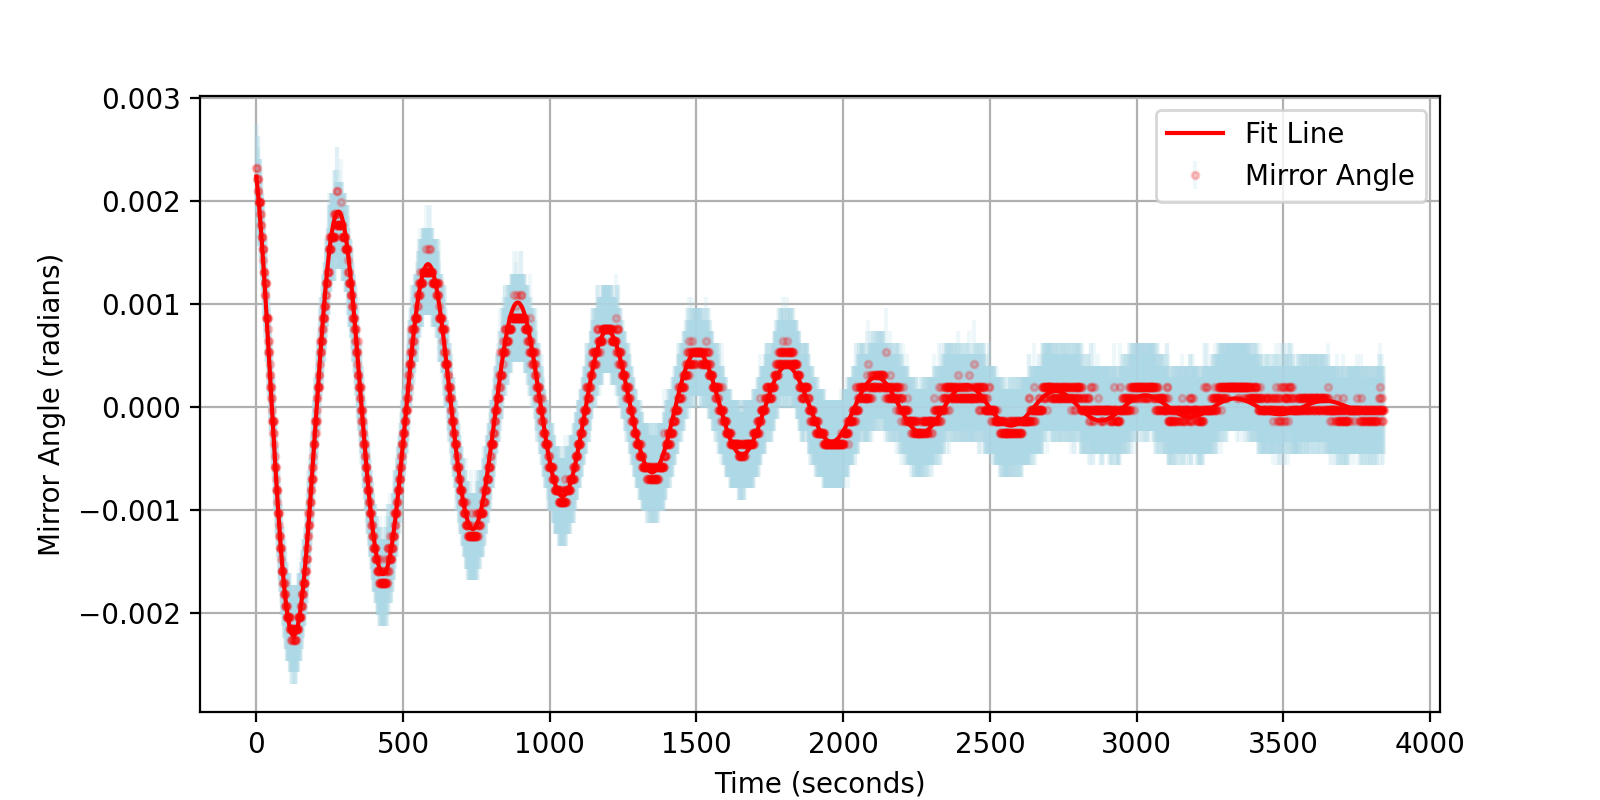
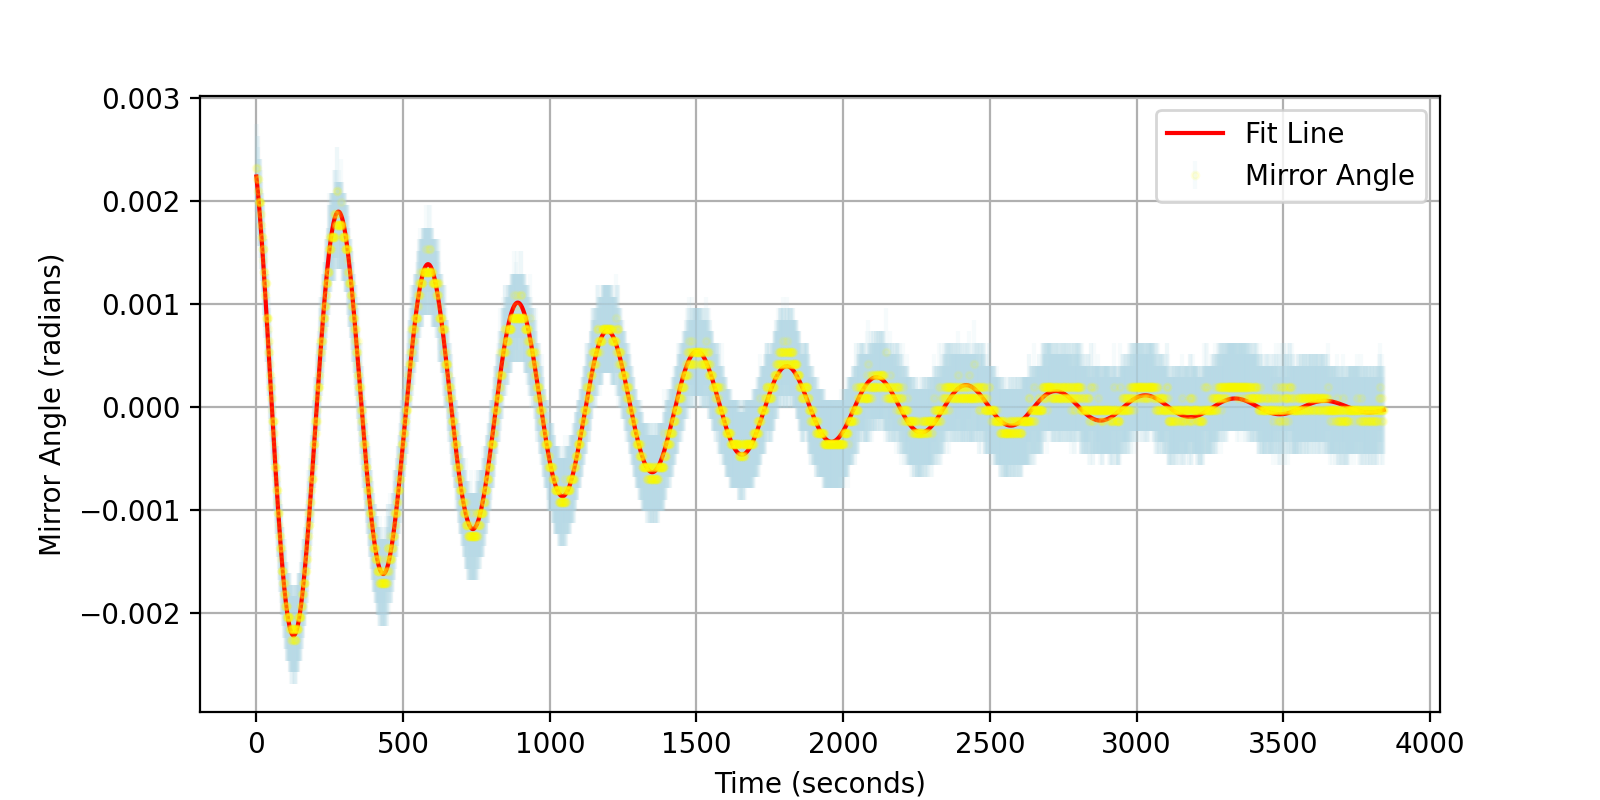
Small Changes

diff --git a/Cavendish Experiment/Set2/Counter_1.py b/Cavendish Experiment/Set2/Counter_1.py
@@ -81,9 +81,8 @@ if __name__ == "__main__":
 
     fig, ax = plt.subplots(figsize=(8, 4))
     # ax.scatter(time, position, marker=".", s=5, label="Raw Data")
-    ax.errorbar(t_numeric, position, yerr=position_uncert, marker=".", linestyle="None",
-                 markersize=5, label="Raw Data", alpha=0.2)
-
+    ax.errorbar(t_numeric, position, yerr=position_uncert, marker=".", markersize=5, color='yellow', ecolor="lightblue",
+                 alpha=0.1, linestyle="None", label="Raw Data")
     # """Fitting a damped cosine"""
 
     # Estimate reasonable initial parameters from data
@@ -146,8 +145,9 @@ if __name__ == "__main__":
     # Updated initial guesses
     p0 = [amplitude_guess, tau_guess, T_guess, phase_guess, base_guess]
     fig, ax = plt.subplots(figsize=(8, 4))
-    ax.errorbar(t_numeric, thetas, yerr=thetas_uncert, marker=".", markersize=5, color='red', ecolor="lightblue",
-                 alpha=0.2, linestyle="None", label="Mirror Angle")
+    ax.errorbar(t_numeric, thetas, yerr=thetas_uncert, marker=".", markersize=5, color='yellow', ecolor="lightblue",
+                 alpha=0.1, linestyle="None", label="Mirror Angle")
+
     popt, pcov = curve_fit(damped_cosine, xdata=t_numeric, p0=p0, ydata=thetas, maxfev=100000000)
     thetas_fit = np.array(damped_cosine(t_numeric, *popt))
     ax.plot(t_numeric, thetas_fit, color="red", label="Fit Line")
@@ -182,7 +182,7 @@ if __name__ == "__main__":
     fig, ax = plt.subplots(figsize=(8, 4))
     ax.errorbar(t_numeric, residuals, yerr=thetas_uncert, marker=".", markersize=5, color='red', ecolor="lightblue",
                 alpha=0.2, linestyle="None", label="Residuals")
-    ax.axhline(0, color="red", linestyle="--", linewidth=1)  # Zero residual line
+    ax.axhline(0, color="black", linestyle="--", linewidth=1)  # Zero residual line
 
     print(reduced_chi_squared)
     print(p_value)

diff --git a/Cavendish Experiment/Set2/Empty_1.py b/Cavendish Experiment/Set2/Empty_1.py
@@ -33,10 +33,8 @@ if __name__ == "__main__":
     t_numeric = np.array([(t - time[0]).total_seconds() for t in time])
 
     fig, ax = plt.subplots(figsize=(8, 4))  # Create figure and axis
-    # ax.scatter(time, position, marker=".", s=5, label="Raw Data")
-    ax.errorbar(t_numeric, position, yerr=position_uncert, marker=".", linestyle="None",
-                color='red', ecolor="lightblue", markersize=5, label="Raw Data", alpha=0.2)
-
+    ax.errorbar(t_numeric, position, yerr=position_uncert, marker=".", markersize=5, color='yellow', ecolor="lightblue",
+                alpha=0.1, linestyle="None", label="Raw Data")
     """Fitting a damped cosine"""
 
     # Estimate reasonable initial parameters from data
